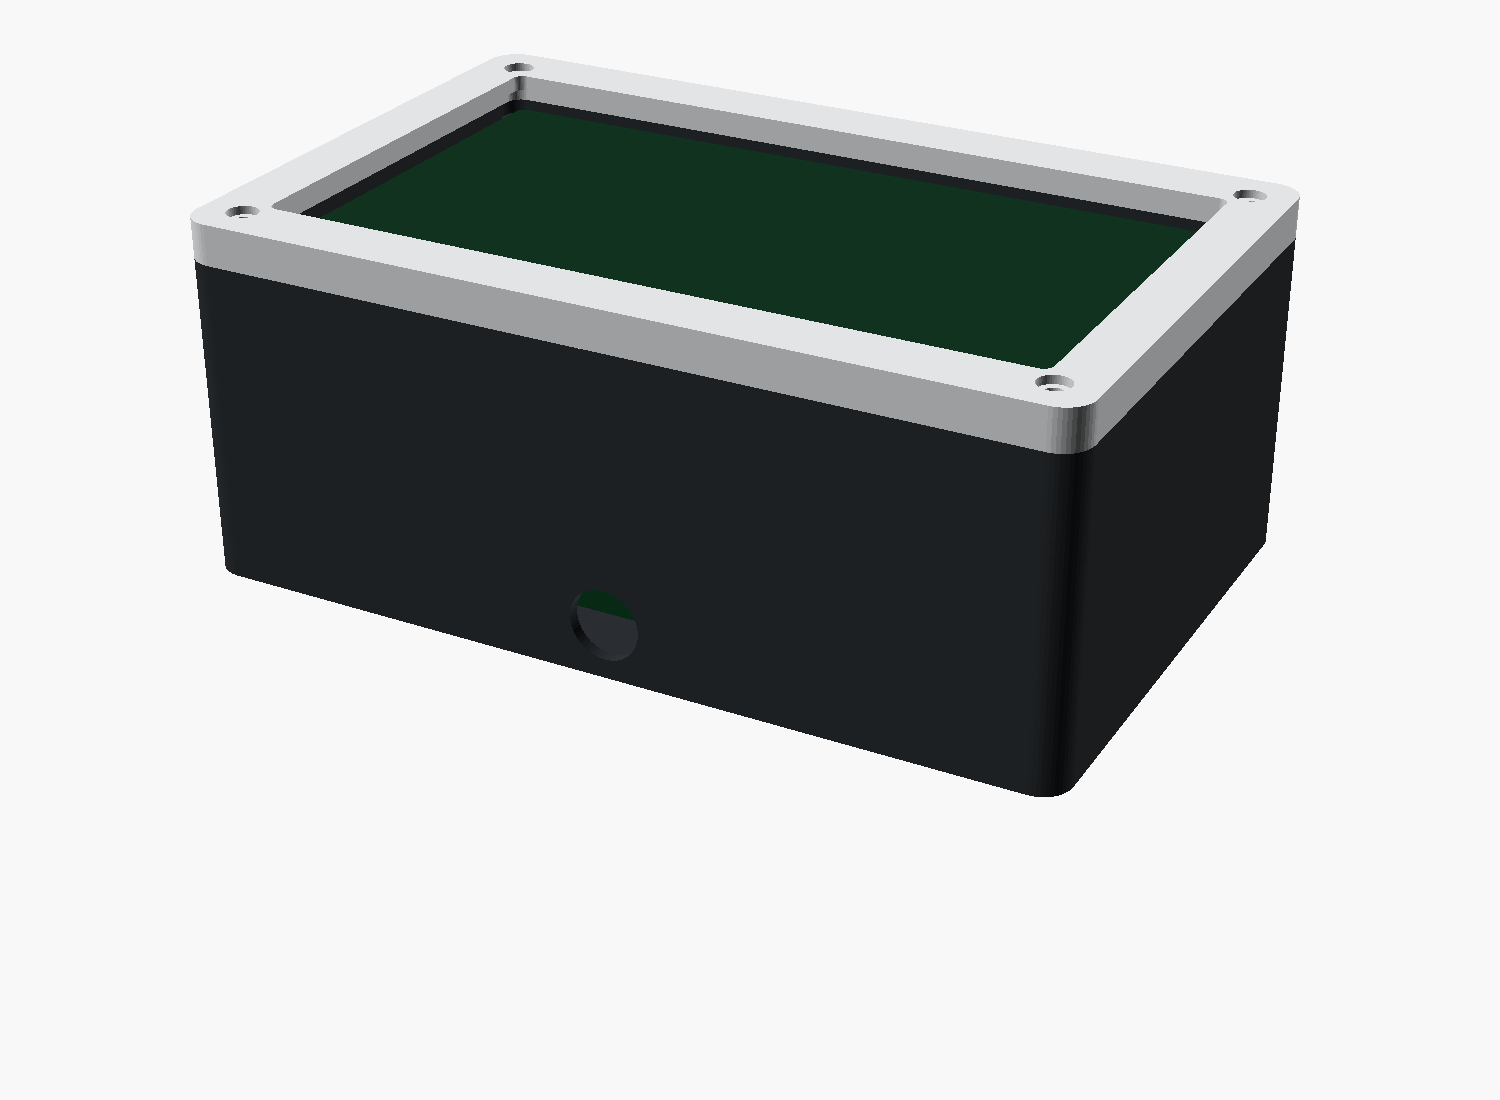
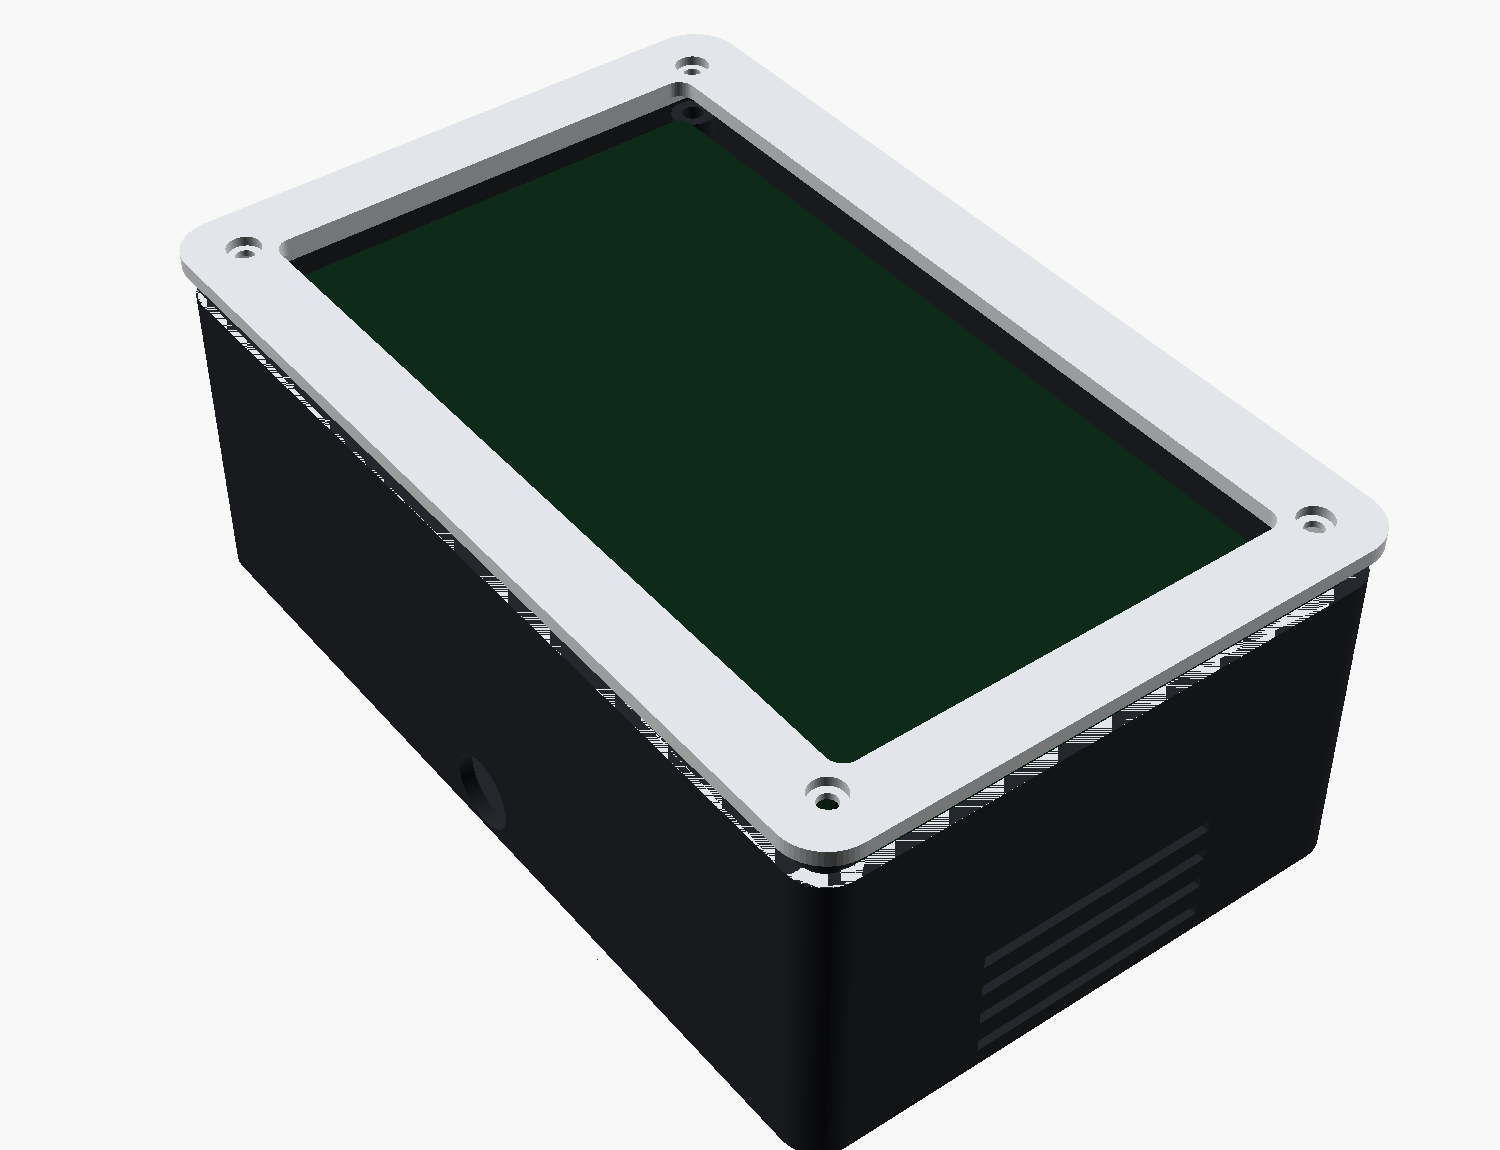
hardware: restyle the Edge enclosure as a vision-sensor product
The first pass looked like an ice-cream tub. Reworked it into a
Cognex/Keyence-register HMI — all subtractive styling so nothing is
fragile:

- proud chamfered bezel frame (monitor-frame look) standing 1.6 mm
  beyond the body, with a shadow-line step and countersunk corner screws
- 45 deg chamfers on the bezel front edge and the body's back edge
  ("floating" look) — chamfers are stronger than sharp edges, not weaker
- a machined vent grille on the side walls (was a back-plate vent field)
- recessed display behind the window

Re-verified: both parts still export as clean 2-manifold STL in OpenSCAD
2021.01. Updated preview.png (rendered hero) and the README. Physical
test-fit still required before printing.

https://claude.ai/code/session_01RxRC4MHp84LSCmobdM7CZn

diff --git a/hardware/edge_enclosure/README.md b/hardware/edge_enclosure/README.md
@@ -1,13 +1,17 @@
 # Tactile Edge — 3D-printed enclosure
 
-A line-side "product" shell for the Edge box so we ship an *appliance*, not
-a bare NVIDIA dev kit zip-tied to a stand. The 7" touch display sits in the
-front **bezel**; the Jetson Orin Nano Developer Kit (heatsink/fan and all)
-tucks into the **body** behind it; the back plate carries a **VESA-75**
-mount, cooling **vents**, and a **cable exit**. Two printed parts screw
+A line-side vision-sensor "product" shell (Cognex/Keyence register) so we
+ship an *appliance*, not a bare NVIDIA dev kit zip-tied to a stand. The 7"
+touch display sits behind a crisp **chamfered bezel** that stands slightly
+proud of the **body** (the monitor-frame look); the Jetson Orin Nano
+Developer Kit (heatsink/fan and all) tucks into the body behind it; the
+**sides** carry a machined **vent grille**; the **back plate** carries a
+**VESA-75** mount and a **cable exit**; the back edge is chamfered so the
+unit reads as "floating". All styling is *subtractive* (chamfers, fillets,
+slots) — no thin protruding decoration to snap off. Two printed parts screw
 together with M3 heat-set inserts.
 
-![Assembled preview rendered from edge_enclosure.scad — black body, silver bezel with corner screws, the 7" display behind the window, cable exit on the front.](preview.png)
+![Product render straight from edge_enclosure.scad — chamfered black body, proud silver bezel with countersunk corner screws, recessed 7" display, side vent grille, cable port.](preview.png)
 
 ```
    front  ┌───────────────────────┐
